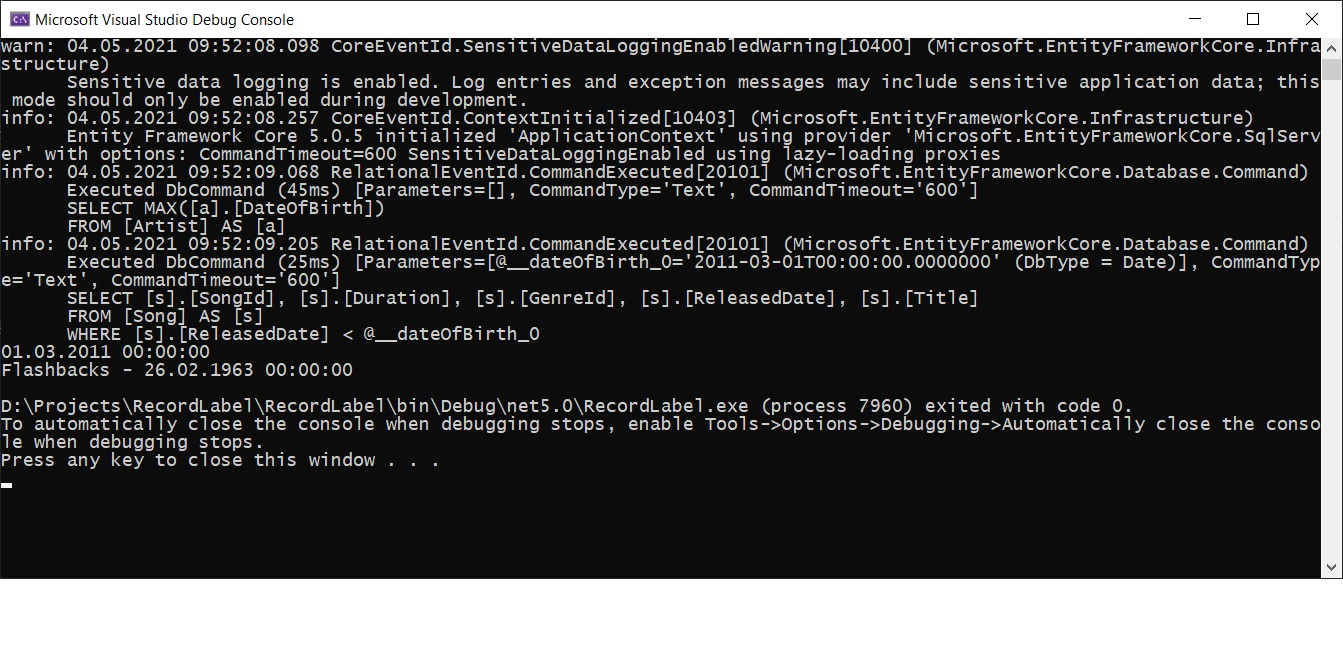
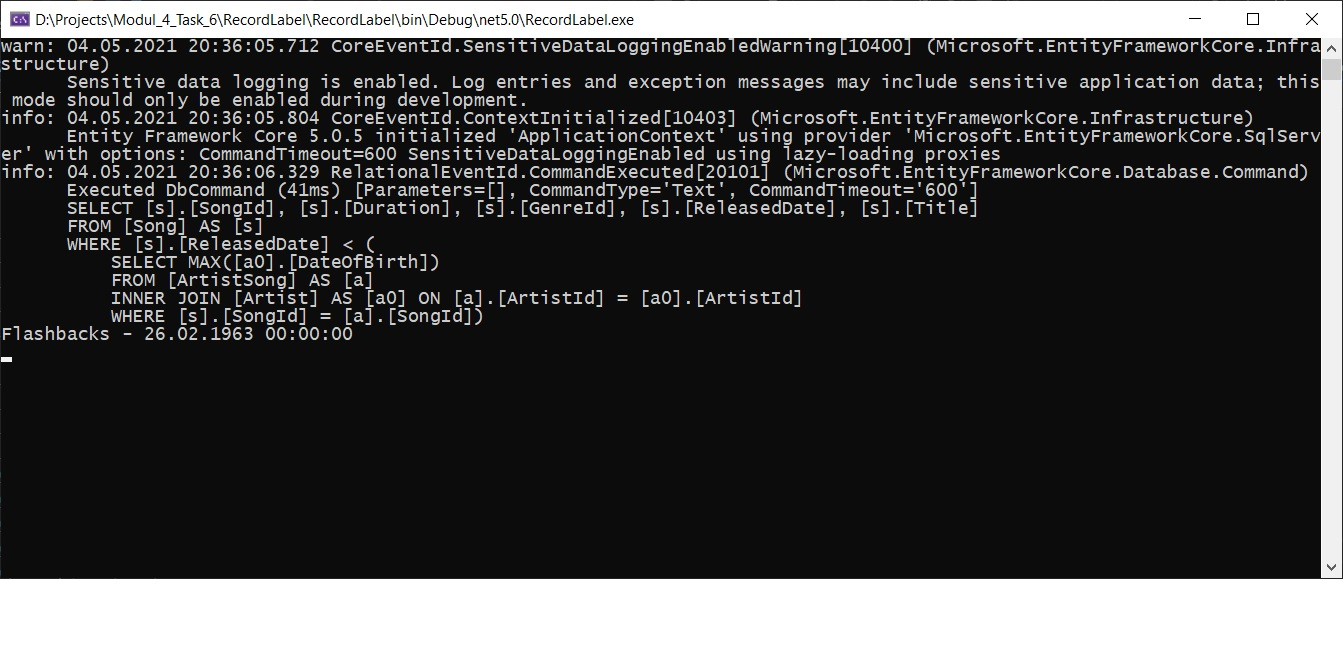
add changed Task FilterByBirth

diff --git a/RecordLabel/RecordLabel/Migrations/20210502172110_InitialCreate.cs b/RecordLabel/RecordLabel/Migrations/20210502172110_InitialCreate.cs
@@ -17,7 +17,7 @@ namespace RecordLabel.Migrations
                     DateOfBirth = table.Column<DateTime>(type: "date", nullable: false),
                     Phone = table.Column<string>(type: "nvarchar(30)", maxLength: 30, nullable: true),
                     Email = table.Column<string>(type: "nvarchar(100)", maxLength: 100, nullable: true),
-                    InstagramUrl = table.Column<string>(type: "nvarchar(max)", nullable: true)
+                    InstagramUrl = table.Column<string>(type: "nvarchar(255)", nullable: true)
                 },
                 constraints: table =>
                 {

diff --git a/RecordLabel/RecordLabel/EntityConfigurations/ArtistConfiguration.cs b/RecordLabel/RecordLabel/EntityConfigurations/ArtistConfiguration.cs
@@ -15,7 +15,7 @@ namespace RecordLabel.EntityConfigurations
             builder.Property(a => a.DateOfBirth).IsRequired().HasColumnName("DateOfBirth").HasColumnType("date");
             builder.Property(a => a.Phone).HasColumnName("Phone").HasMaxLength(30);
             builder.Property(a => a.Email).HasColumnName("Email").HasMaxLength(100);
-            builder.Property(a => a.InstagramUrl).HasColumnName("InstagramUrl");
+            builder.Property(a => a.InstagramUrl).HasColumnName("InstagramUrl").HasMaxLength(255);
 
             builder.HasMany(a => a.Songs)
                 .WithMany(s => s.Artists)

diff --git a/RecordLabel/RecordLabel/LazyLoading.cs b/RecordLabel/RecordLabel/LazyLoading.cs
@@ -49,12 +49,10 @@ namespace RecordLabel
 
         public async Task FilterByBirth()
         {
-            var dateOfBirth = await _context.Artists.MaxAsync(a => a.DateOfBirth);
             var songs = await _context.Songs
-                .Where(s => s.ReleasedDate < dateOfBirth)
+                .Where(s => s.ReleasedDate < s.Artists.Max(a => a.DateOfBirth))
                 .ToListAsync();
 
-            Console.WriteLine($"{dateOfBirth}");
             foreach (var song in songs)
             {
                 Console.WriteLine($"{song.Title} - {song.ReleasedDate}");

diff --git a/RecordLabel/RecordLabel/Migrations/20210502172110_InitialCreate.Designer.cs b/RecordLabel/RecordLabel/Migrations/20210502172110_InitialCreate.Designer.cs
@@ -54,7 +54,7 @@ namespace RecordLabel.Migrations
                         .HasColumnName("Email");
 
                     b.Property<string>("InstagramUrl")
-                        .HasColumnType("nvarchar(max)")
+                        .HasColumnType("nvarchar(255)")
                         .HasColumnName("InstagramUrl");
 
                     b.Property<string>("Name")
